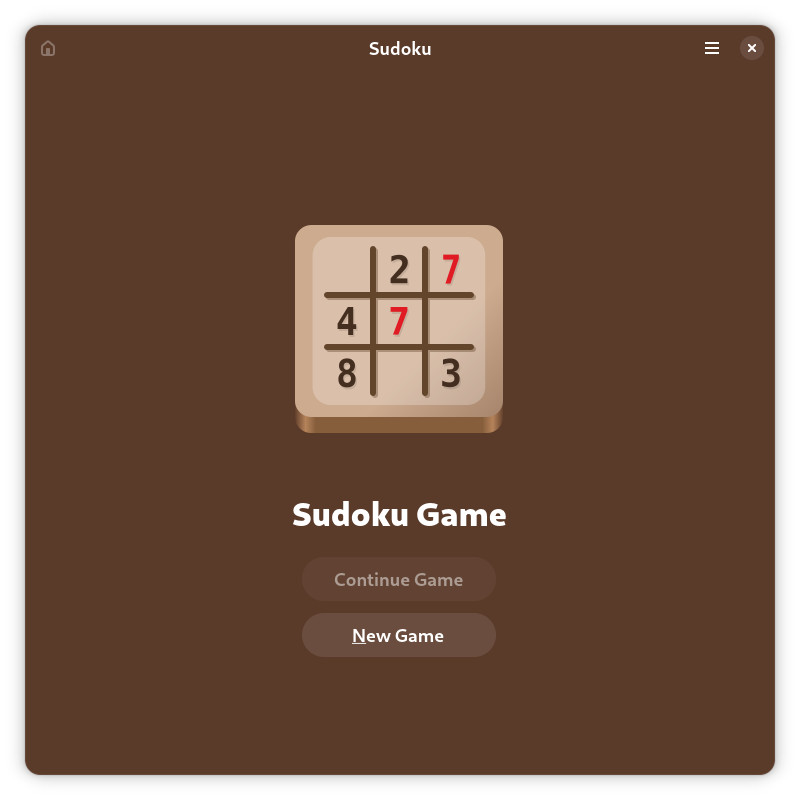
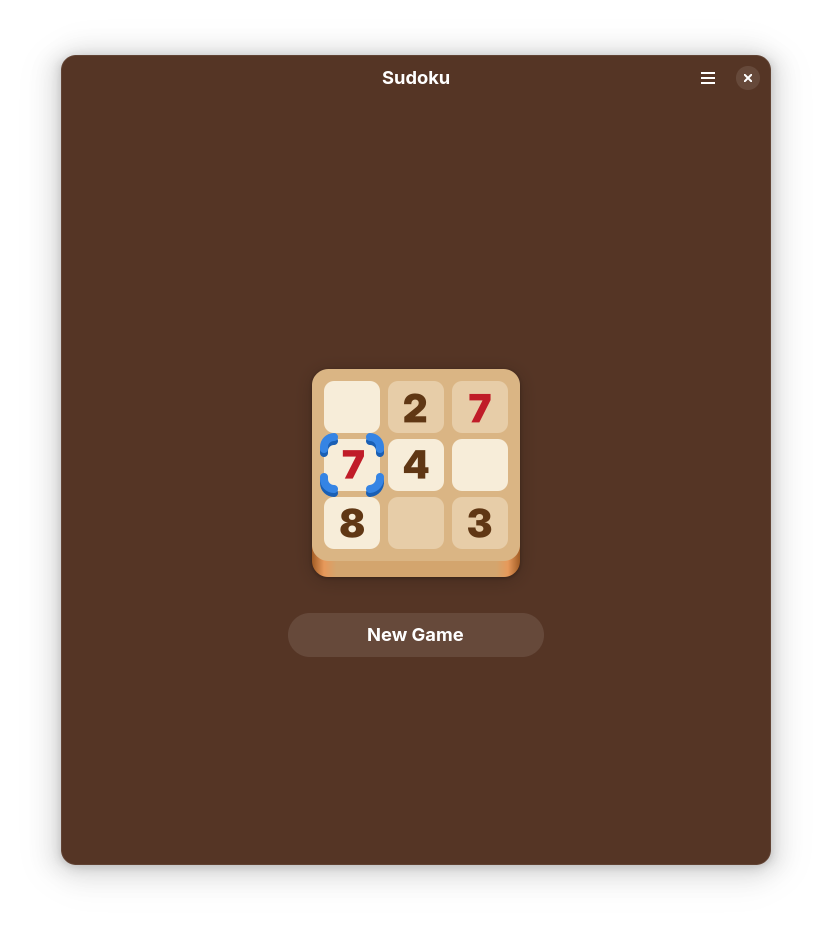
Eleventh gnome circle revision (#256)
* Fix popover buttons not being visible enough

* Updated screenshots

* Fix Orca reading weird stuff

* Improve how to play dialog keyboard accessibility

* Fix blank preferences and add subtitles + descriptions

* Fix focus outline not being circular

Changed region(s): [[0.0, 0.0, 1.0, 1.0], [0.3438, 0.2812, 0.6562, 0.6875], [0.375, 0.7188, 0.625, 0.8438]]

diff --git a/data/style.css b/data/style.css
@@ -11,7 +11,11 @@
 }
 
 #sudoku-parent-grid button {
-    background-color: rgba(255, 232, 200, 0.6);
+    background-color: rgba(255, 245, 230, 0.6);
+}
+
+#sudoku-popover button {
+    background-color: rgba(255, 227, 185, 0.85);
 }
 
 #sudoku-parent-grid button.toggle-active {

diff --git a/src/screens/preferences_page.py b/src/screens/preferences_page.py
@@ -1,10 +1,33 @@
-# screens/general_page.py
+# screens/preferences_page.py
+#
+# Copyright 2025 sepehr-rs
+#
+# This program is free software: you can redistribute it and/or modify
+# it under the terms of the GNU General Public License as published by
+# the Free Software Foundation, either version 3 of the License, or
+# (at your option) any later version.
+#
+# This program is distributed in the hope that it will be useful,
+# but WITHOUT ANY WARRANTY; without even the implied warranty of
+# MERCHANTABILITY or FITNESS FOR A PARTICULAR PURPOSE.  See the
+# GNU General Public License for more details.
+#
+# You should have received a copy of the GNU General Public License
+# along with this program.  If not, see <http://www.gnu.org/licenses/>.
+#
+# SPDX-License-Identifier: GPL-3.0-or-later
+
 from gi.repository import Gtk, Adw
 
 
 class VariantPreferencesPage(Adw.PreferencesGroup):
+    # TODO: Consider changing the preferences types for variants to list too.
+    # TODO: This would provide easier use for descriptions and subtitles.
     def __init__(self, variant_preferences, name):
-        super().__init__(title=name)
+        super().__init__(
+            title=name,
+            description="Configure behaviour for each Sudoku variant.",
+        )
         # TODO: Fix variant preferences being none on startup
         self.variant_preferences = variant_preferences
         self.controls = {}
@@ -30,13 +53,28 @@ class VariantPreferencesPage(Adw.PreferencesGroup):
 
 class GeneralPreferencesPage(Adw.PreferencesGroup):
     def __init__(self, general_preferences, name):
-        super().__init__(title=name)
+        super().__init__(title=name, description="General application options")
         self.general_preferences = general_preferences
         self.controls = {}
         for key, default in self.general_preferences.items():
-            row = Adw.ActionRow(title=key.replace("_", " ").title())
+            value = self.general_preferences.get(key, default)
+            if isinstance(value, list):
+                subtitle = value[0]
+                active = value[1]
+            else:
+                subtitle = (
+                    "When on, Sudoku checks entries against the solution. "
+                    "When off, only rule violations are shown"
+                )  # TODO: This is not clean code. consider putting
+                # repeating variables in a constants.py file
+                active = value
+
+            row = Adw.ActionRow(
+                title=key.replace("_", " ").title(),
+                subtitle=subtitle,
+            )
             switch = Gtk.Switch(valign=Gtk.Align.CENTER)
-            switch.set_active(self.general_preferences.get(key, default))
+            switch.set_active(active)
             switch.connect("notify::active", self.on_toggle_changed, key)
             row.add_suffix(switch)
             row.set_activatable_widget(switch)

diff --git a/src/screens/help_dialog.py b/src/screens/help_dialog.py
@@ -16,7 +16,7 @@
 # along with this program.  If not, see <http://www.gnu.org/licenses/>.
 #
 # SPDX-License-Identifier: GPL-3.0-or-later
-from gi.repository import Gtk, Adw
+from gi.repository import Gtk, Adw, Gdk
 
 
 @Gtk.Template(
@@ -33,6 +33,7 @@ class HowToPlayDialog(Adw.Dialog):
         self.prev.connect("clicked", self.on_prev_clicked)
         self.next.connect("clicked", self.on_next_clicked)
         self.carousel.connect("page-changed", self.on_page_changed)
+        self.add_controller(self._make_key_controller())
         self.update_button_sensitivity()
 
     def on_prev_clicked(self, button):
@@ -58,3 +59,14 @@ class HowToPlayDialog(Adw.Dialog):
         n_pages = self.carousel.get_n_pages()
         self.prev.set_sensitive(current_page > 0)
         self.next.set_sensitive(current_page < n_pages - 1)
+
+    def _make_key_controller(self):
+        key = Gtk.EventControllerKey()
+        key.connect("key-pressed", self.on_key_pressed)
+        return key
+
+    def on_key_pressed(self, controller, keyval, keycode, state):
+        if keyval == Gdk.KEY_Right:
+            self.on_next_clicked(self.next)
+        elif keyval == Gdk.KEY_Left:
+            self.on_prev_clicked(self.prev)

diff --git a/src/screens/preferences_dialog.py b/src/screens/preferences_dialog.py
@@ -1,6 +1,7 @@
 from gi.repository import Adw
 from .preferences_page import VariantPreferencesPage, GeneralPreferencesPage
 from ..base.preferences_manager import PreferencesManager
+from ..base.preferences import Preferences
 
 
 class PreferencesDialog(Adw.PreferencesWindow):
@@ -11,12 +12,14 @@ class PreferencesDialog(Adw.PreferencesWindow):
 
         self.preferences = PreferencesManager.get_preferences()
         if not self.preferences:
+            page = Adw.PreferencesPage()
+            general_group = GeneralPreferencesPage(Preferences.general_defaults, "")
+            page.add(general_group)
+            self.add(page)
             return
 
         page = Adw.PreferencesPage()
-        general_group = GeneralPreferencesPage(
-            self.preferences.general_defaults, "General Preferences"
-        )
+        general_group = GeneralPreferencesPage(self.preferences.general_defaults, "")
         variant_group = VariantPreferencesPage(
             self.preferences.variant_defaults, self.preferences.name
         )

diff --git a/src/window.py b/src/window.py
@@ -262,9 +262,7 @@ class SudokuWindow(Adw.ApplicationWindow):
         if (
             self.pencil_toggle_button.get_active()
         ):  # TODO: consider moving the label part to a constant
-            self.sudoku_window_title.set_subtitle(
-                "Pencil Mode • Note possible numbers."
-            )
+            self.sudoku_window_title.set_subtitle("Pencil Mode • Note possible numbers")
         else:
             self.sudoku_window_title.set_subtitle(
                 f"{self.manager.board.variant.capitalize()} • "

diff --git a/src/screens/game_setup_dialog.py b/src/screens/game_setup_dialog.py
@@ -79,9 +79,10 @@ class GameSetupDialog(Adw.Dialog):
         for label, value in items:
             btn = Gtk.CheckButton()
             btn.add_css_class("radio")
-            if group:
-                btn.set_group(group)
-            else:
+            btn.set_group(group)
+            btn.set_valign(Gtk.Align.CENTER)
+            btn.set_halign(Gtk.Align.CENTER)
+            if group is None:
                 group = btn
             if value == default:
                 btn.set_active(True)

diff --git a/src/base/preferences.py b/src/base/preferences.py
@@ -22,9 +22,13 @@ from abc import ABC
 
 class Preferences(ABC):
     general_defaults = {
-        "casual_mode": True,
+        "casual_mode": [
+            "When on, Sudoku checks entries against the solution."
+            " When off, only rule violations are shown",
+            True,
+        ],
     }
 
     def __init__(self):
         self.general_defaults = self.general_defaults.copy()
-        self.name = "General Preferences"
+        self.name = ""

diff --git a/src/variants/classic_sudoku/ui_helpers.py b/src/variants/classic_sudoku/ui_helpers.py
@@ -130,6 +130,7 @@ class ClassicUIHelpers(UIHelpers):
         )
         grid.set_focus_on_click(True)
         grid.grab_focus()
+        popover.set_name("sudoku-popover")
         popover.show()
         return popover
 
